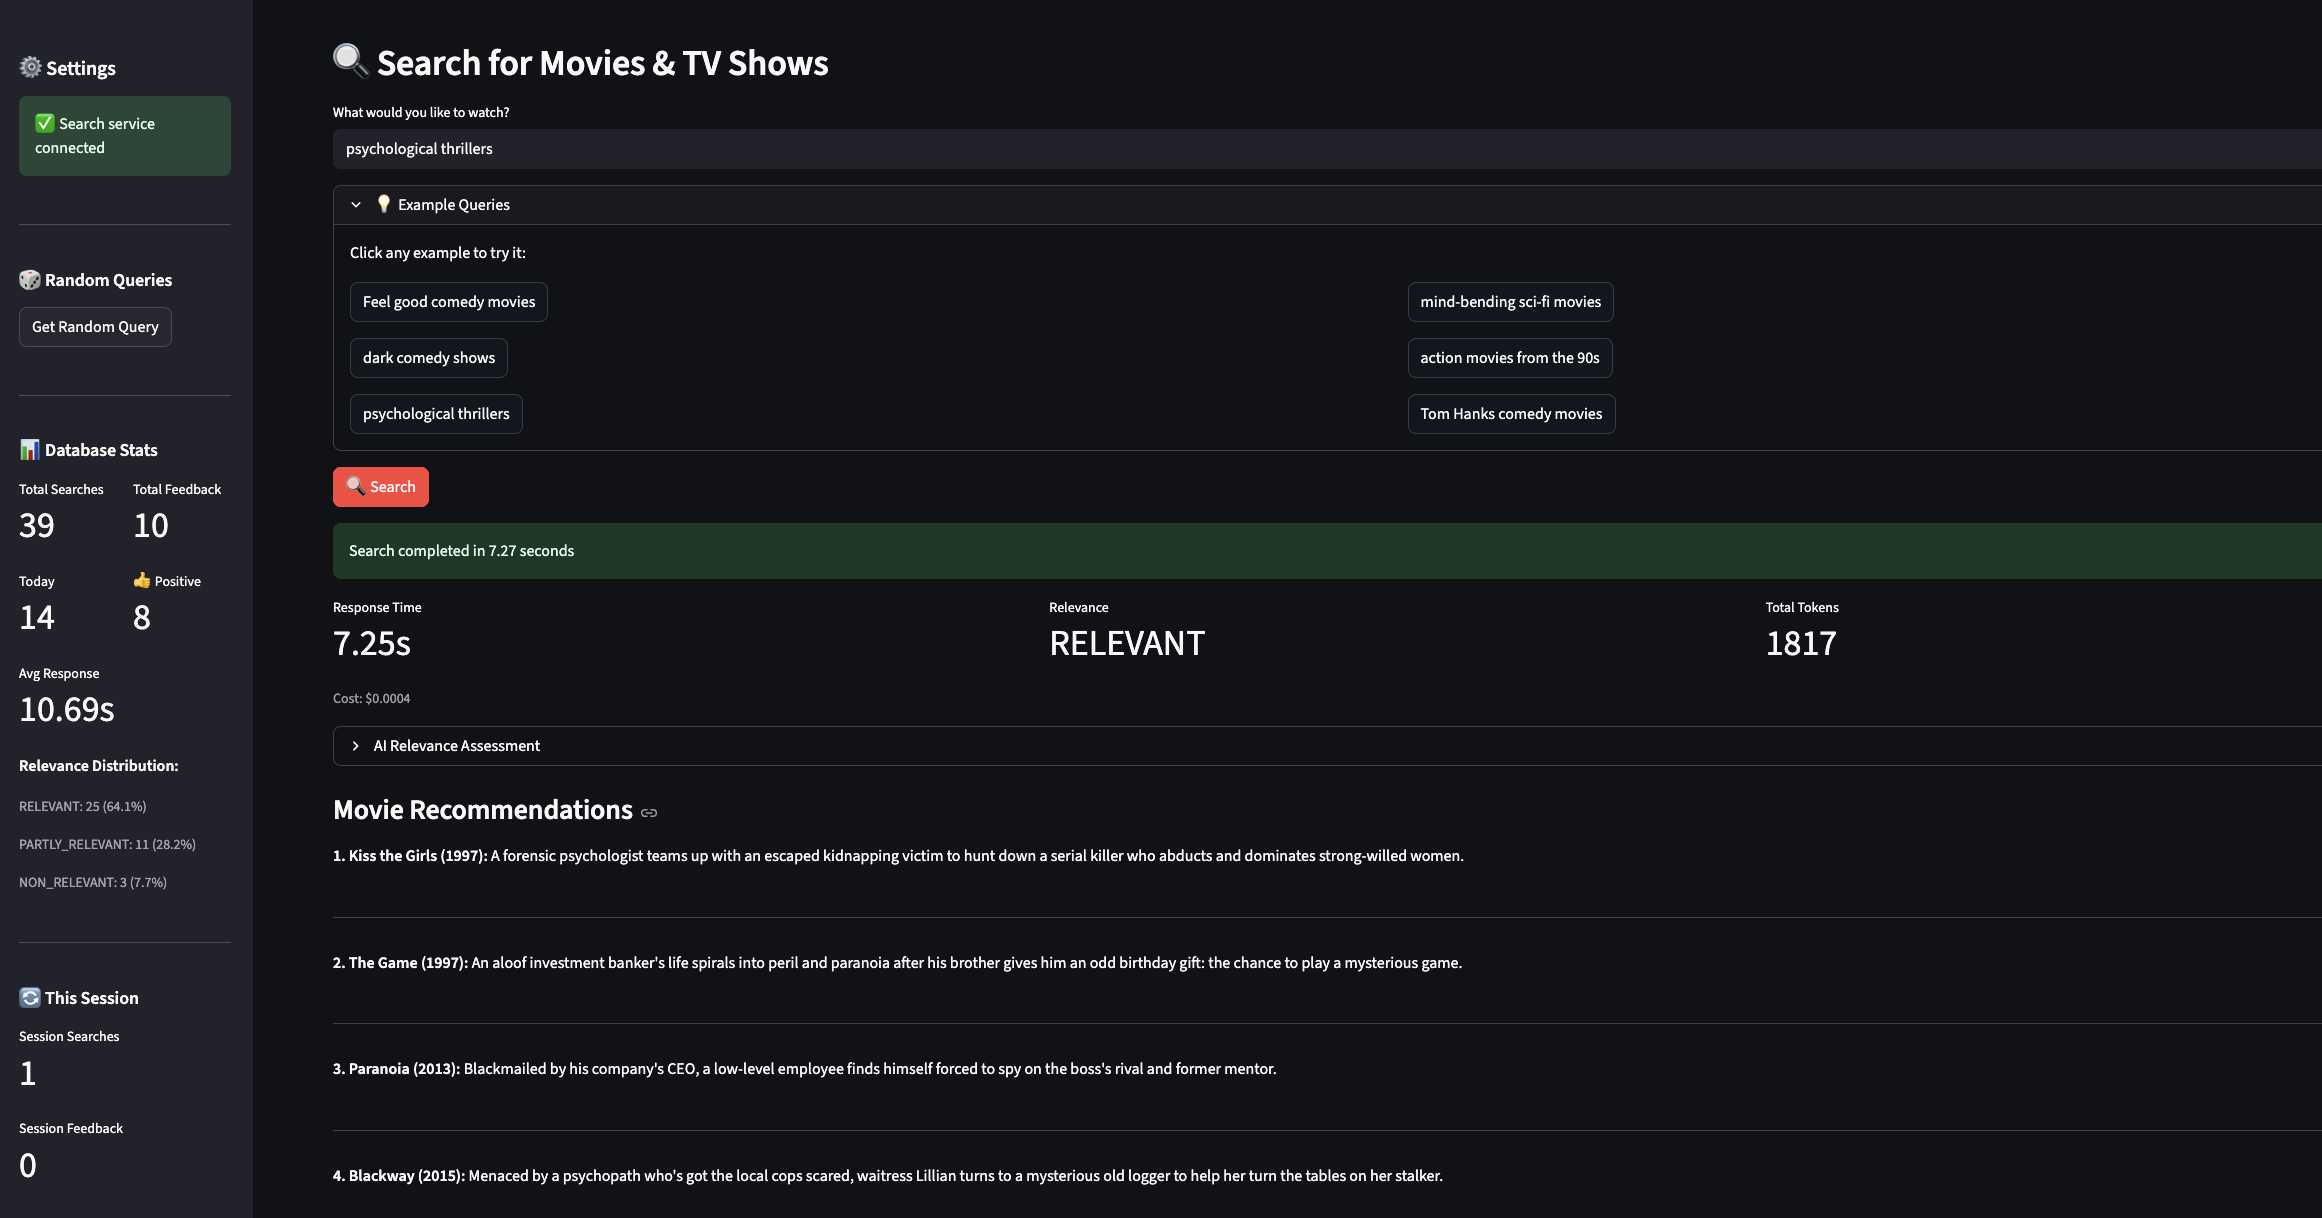
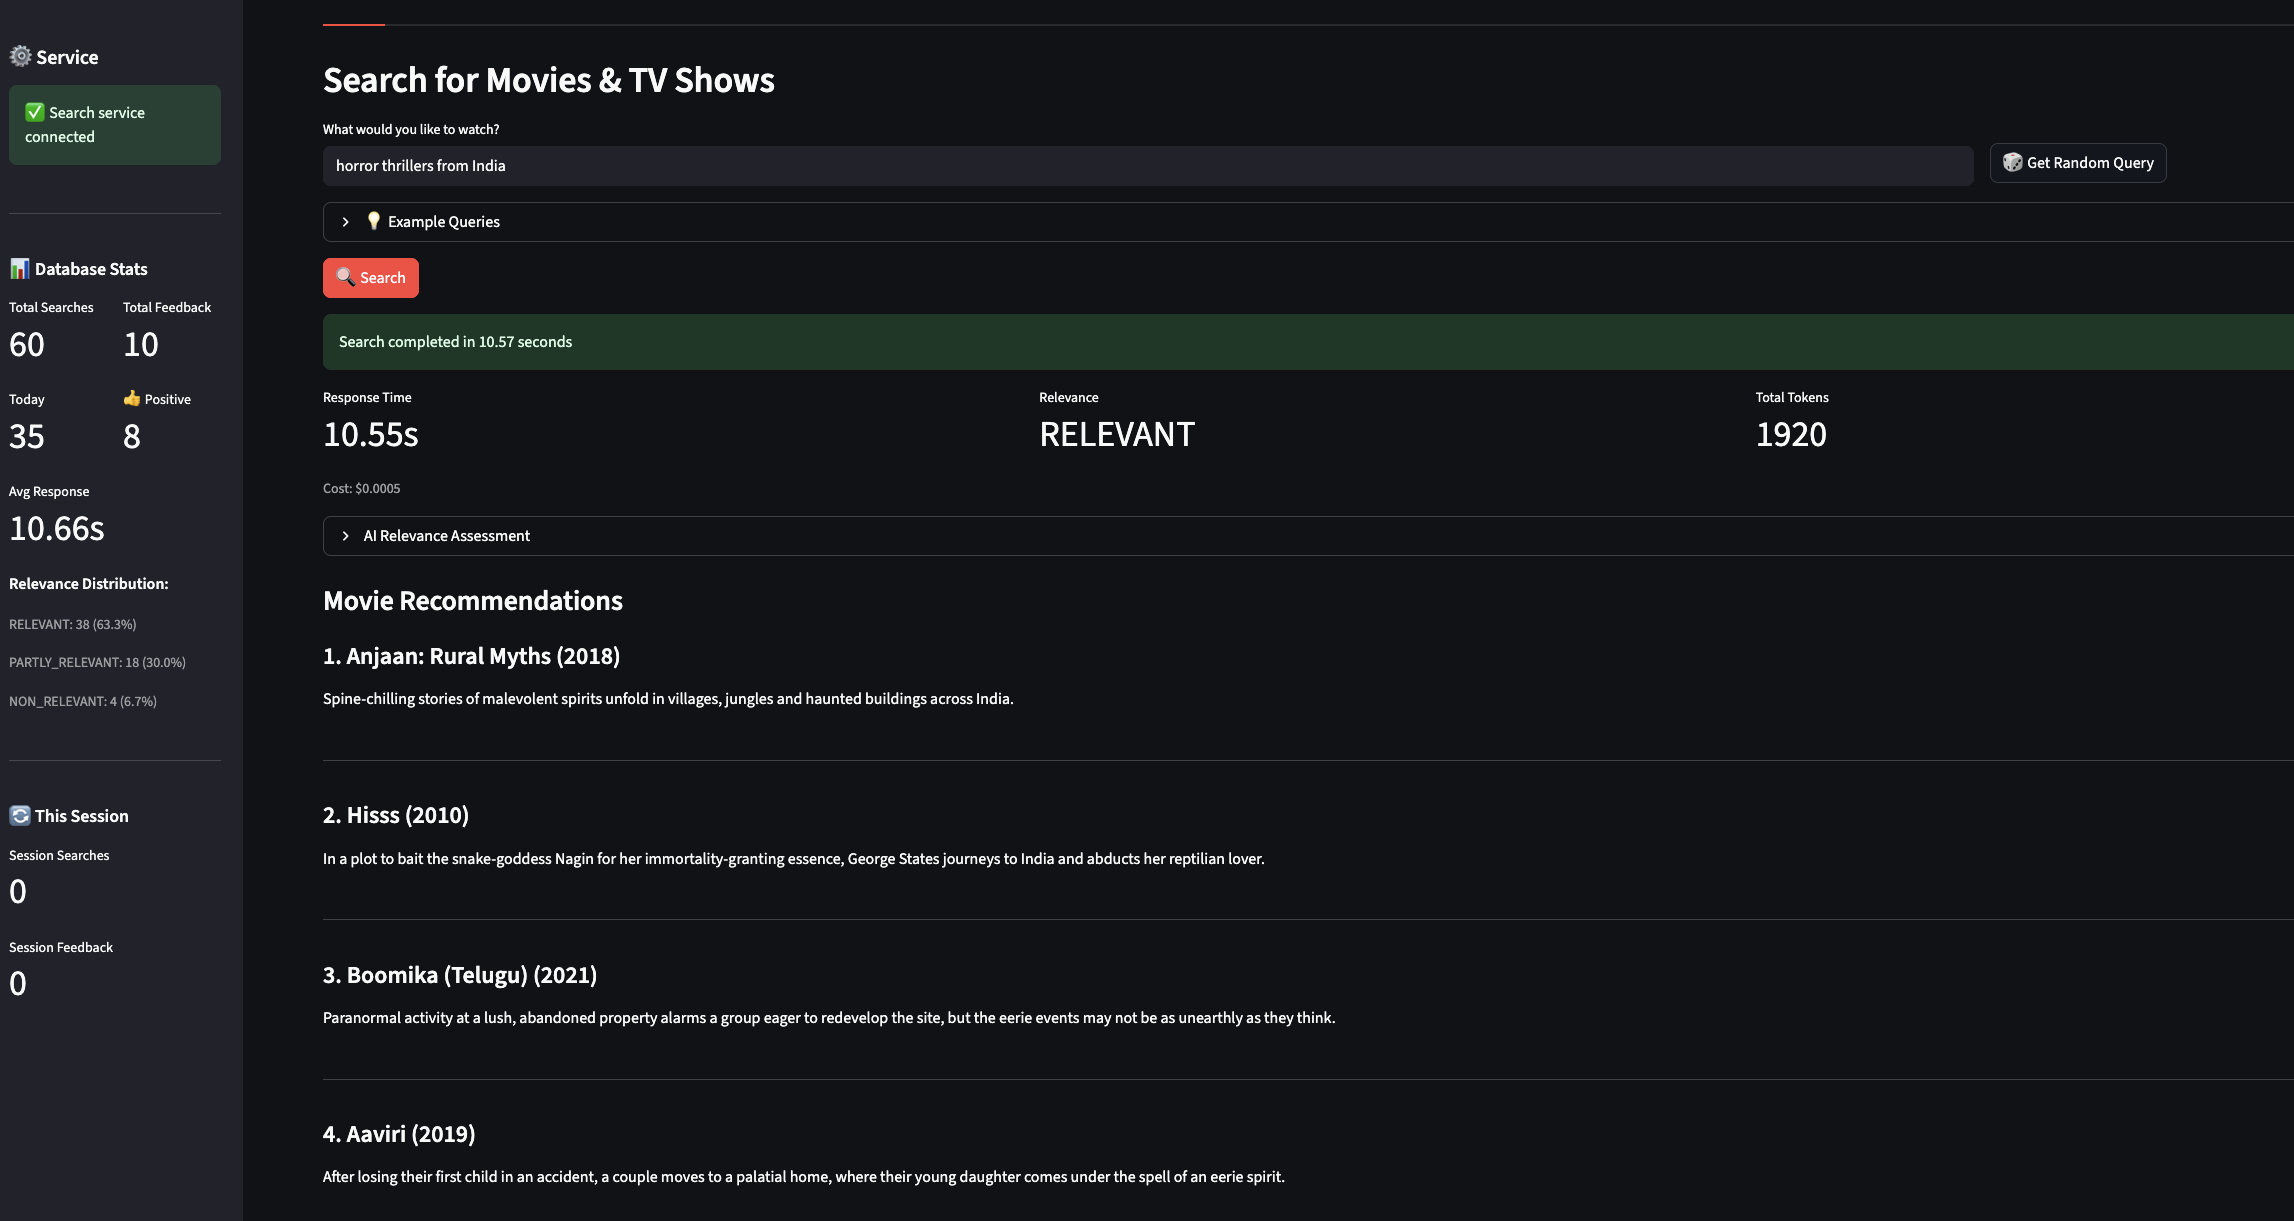
[update] UI changes

diff --git a/src/modules/ui/streamlit_app.py b/src/modules/ui/streamlit_app.py
@@ -221,12 +221,22 @@ def display_movie_recommendations(results_data):
             with st.container():
                 # Parse the recommendation to make movie title bold
                 # Format is usually: "Title (Year): Description"
-                if ':' in recommendation:
+                # Simple pattern matching: look for "):" to find where title ends
+                if '):' in recommendation:
+                    # Split at "):" pattern to separate title from description
+                    title_part, description_part = recommendation.split('):', 1)
+                    title_part = title_part.strip() + ')'  # Add back the closing parenthesis
+                    
+                    st.markdown(f"#### {i}. {title_part}")
+                    st.markdown(f"{description_part.strip()}", unsafe_allow_html=True)
+                elif ':' in recommendation:
+                    # Fallback for other formats
                     title_part, description_part = recommendation.split(':', 1)
-                    st.markdown(f"**{i}. {title_part.strip()}:**{description_part}")
+                    st.markdown(f"#### {i}. {title_part.strip()}")
+                    st.markdown(f"{description_part.strip()}", unsafe_allow_html=True)
                 else:
-                    # Fallback if format is different
-                    st.markdown(f"**{i}.** {recommendation}")
+                    # No colon found
+                    st.markdown(f"#### {i}. {recommendation}")
                 st.markdown("---")
     
     return conversation_id
@@ -248,7 +258,7 @@ def main():
 
     # Sidebar for settings and info
     with st.sidebar:
-        st.header("⚙ Settings")
+        st.header("⚙ Service")
         
         # Connection status
         try:
@@ -260,19 +270,6 @@ def main():
         except Exception as e:
             st.error(f"❌ Could not connect to the search service at {BASE_URL}")
             st.caption("Start the service with: `docker-compose up`")
-        
-        st.markdown("---")
-        
-        # Random query option
-        random_queries = load_random_queries()
-        if random_queries:
-            st.subheader("🎲 Random Queries")
-            if st.button("Get Random Query"):
-                import random
-                random_query = random.choice(random_queries)
-                st.session_state.current_query = random_query
-                st.session_state.trigger_search = True
-                st.rerun()
         
         st.markdown("---")
         
@@ -429,15 +426,35 @@ def main():
             st.info("Make sure PostgreSQL is running and accessible")
     
     with tab1:
-        st.header("🔍 Search for Movies & TV Shows")
+        st.header("Search for Movies & TV Shows")
         
-        # Query input - using current_query from session state
-        query = st.text_input(
-            "What would you like to watch?",
-            placeholder="e.g., Christopher Nolan movies, romantic comedies...",
-            value=st.session_state.current_query,
-            key="query_text_input"
-        )
+        # Query input and random query button side by side
+        random_queries = load_random_queries()
+        if random_queries:
+            col1, col2 = st.columns([3.5, 1])
+            with col1:
+                query = st.text_input(
+                    "What would you like to watch?",
+                    placeholder="e.g., Christopher Nolan movies, romantic comedies...",
+                    value=st.session_state.current_query,
+                    key="query_text_input"
+                )
+            with col2:
+                # Add some vertical spacing to align button with input field
+                st.markdown("<br>", unsafe_allow_html=True)
+                if st.button("  🎲  Get Random Query ", key="random_query_btn", help="Get a random suggestion"):
+                    import random
+                    random_query = random.choice(random_queries)
+                    st.session_state.current_query = random_query
+                    st.session_state.trigger_search = True
+                    st.rerun()
+        else:
+            query = st.text_input(
+                "What would you like to watch?",
+                placeholder="e.g., Christopher Nolan movies, romantic comedies...",
+                value=st.session_state.current_query,
+                key="query_text_input"
+            )
         
         # Update session state when input changes
         if query != st.session_state.current_query:
@@ -464,6 +481,7 @@ def main():
                     st.session_state.current_query = example
                     st.session_state.trigger_search = True
                     st.rerun()
+        
         
         # Search button and results
         search_triggered = st.button("🔍 Search", type="primary") or st.session_state.trigger_search

diff --git a/src/modules/workflow/test.py b/src/modules/workflow/test.py
@@ -5,8 +5,8 @@ import argparse
 parser = argparse.ArgumentParser(description='Test Content-Pal API')
 parser.add_argument('--query', '-q', default="Tom Cruise movies", 
                    help='Search query (default: "Tom Cruise movies")')
-parser.add_argument('--port', '-p', default="5000", 
-                   help='Port number (default: 5000)')
+parser.add_argument('--port', '-p', default="5001", 
+                   help='Port number (default: 5001)')
 args = parser.parse_args()
 
 query = args.query

diff --git a/README.md b/README.md
@@ -66,7 +66,7 @@ You can run the Streamlit UI locally using the following command being in the ro
 ```
 and access ** Streamlit UI: http://localhost:8501
 
-![Content Pal Streamlit UI](streamlit.png)
+![Content Pal Streamlit Interface](streamlit.png)
 
 
 ### Running with Docker Compose (Optional)
